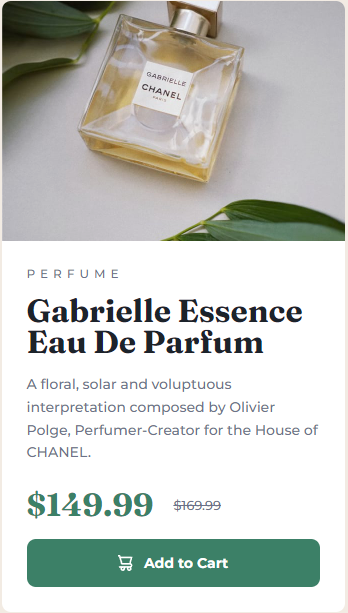
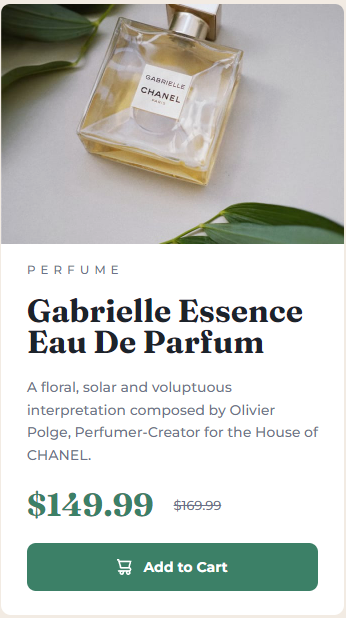
Structure changes for better responsiveness

diff --git a/styles.css b/styles.css
@@ -1,5 +1,6 @@
 /********** SETUP **********/
 * {
+  box-sizing: border-box;
   margin: 0;
   padding: 0;
 }
@@ -15,7 +16,6 @@
   --wht:#FFFFFF;
   --actGreen: #1A4031;
 
-  box-sizing: border-box;
   font-family: 'Montserrat', sans-serif; /* weight: 500 & 700 */
   font-size: 14px;
   font-weight: 500;
@@ -27,7 +27,6 @@ body {
   background-color: var(--bkgrd);
   min-height: 100vh;
   display: flex;
-  flex-direction: column;
   justify-content: center;
   align-items: center;
 }
@@ -40,40 +39,49 @@ body {
 
 .container {
   background-color: var(--wht);
-  border-radius: 9px;
+  border-radius: 10px;
   width: 343px;
   height: 611px;
+  display: flex;
+  flex-direction: column;
 
 }
 
-.hero-image {
+.chanel {
   width: 100%;
   vertical-align: top;
   border-radius: 9px 9px 0 0;
 }
 
-.card-body {
-  margin: 25px;
+.card {
+  align-self: center;
+  width: 85%;
+  height: 100%;
+  display: flex;
+  flex-direction: column;
+  align-items: flex-start;
+  justify-content: space-evenly;
+  margin: 5px 0;
 }
 
 .sub-heading {
   font-size: 12px;
   letter-spacing: 5px;
   color: var(--dkgryBlue);
-  margin-bottom: 15px;
+  /*margin-bottom: 15px;*/
 }
 
 .main-heading {
   color: var(--vdkBlue);
   line-height: 0.96;
   word-spacing: -0.3px;
-  margin-bottom: 16px;
+  /*margin-bottom: 16px;*/
 }
 
 .body-text {
   color: var(--dkgryBlue);
   line-height: 1.62;
-  margin-bottom: 21px;
+  /*margin-bottom: 21px;*/
 }
 
 .price {
@@ -105,9 +113,32 @@ body {
   flex-direction: row;
   align-items: center;
   justify-content: center;
-  margin: 15px auto 5px;
 }
 
 .btn-text {
   margin-left: 11px;
+}
+
+.cart-btn:active {
+  background-color: var(--actGreen);
+}
+
+@media screen and (min-width: 650px) {
+
+  .container {
+    width: 600px;
+    height: 450px;
+    flex-direction: row;
+  }
+
+  .chanel {
+    width: 300px;
+    height: 100%;
+    border-radius: 10px 0 0 10px;
+  }
+
+  .card {
+    height: 98%;
+    margin: 0px 30px;
+  }
 }

diff --git a/index.html b/index.html
@@ -18,8 +18,14 @@
 </head>
 <body>
   <main class="container">
-    <img src="./images/image-product-mobile.jpg" alt="Chanel Perfume" class="hero-image">
-    <div class="card-body">
+    <div class="hero-image">
+      <picture>
+        <source srcset="./images/image-product-mobile.jpg" media="(max-width: 650px)">
+        <source srcset="./images/image-product-desktop.jpg">
+        <img src="./images/image-product-mobile.jpg" alt="Chanel Perfume" class="chanel">
+      </picture>
+    </div>
+    <div class="card">
       <p class="sub-heading">PERFUME</p>
       <H1 class="main-heading headft">Gabrielle Essence Eau De Parfum</H1>
       <p class="body-text">
@@ -34,7 +40,7 @@
         <img src="./images/icon-cart.svg" alt="cart icon" class="cart-icon">
         <p class="btn-text">Add to Cart</p>
       </div>
-  </div>
+    </div>
   </main>
 </body>
 </html>
